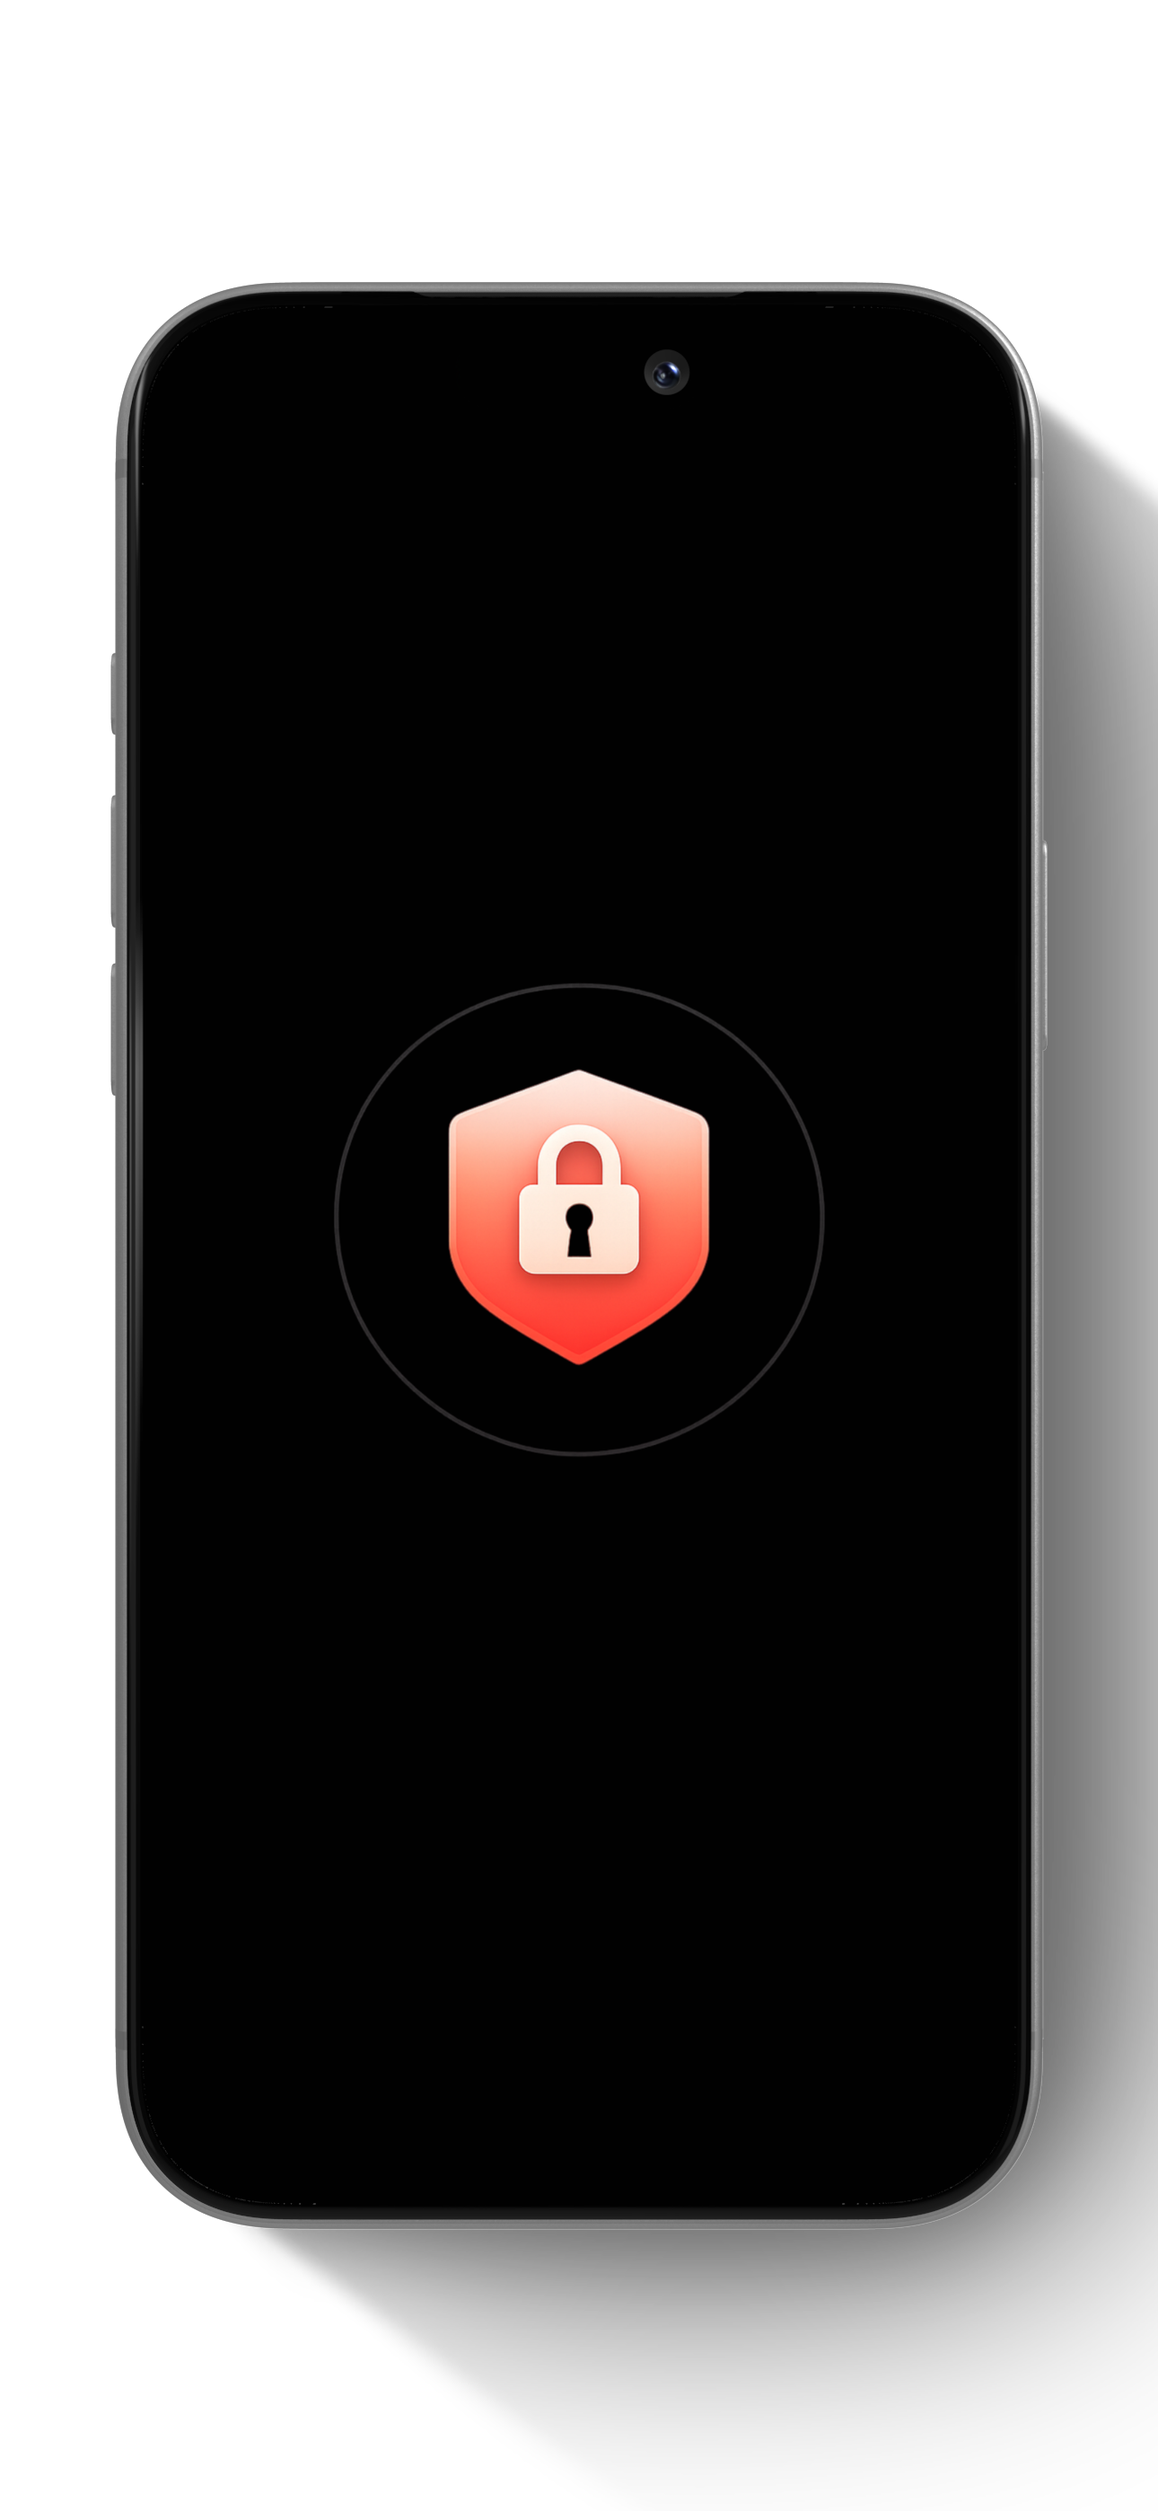
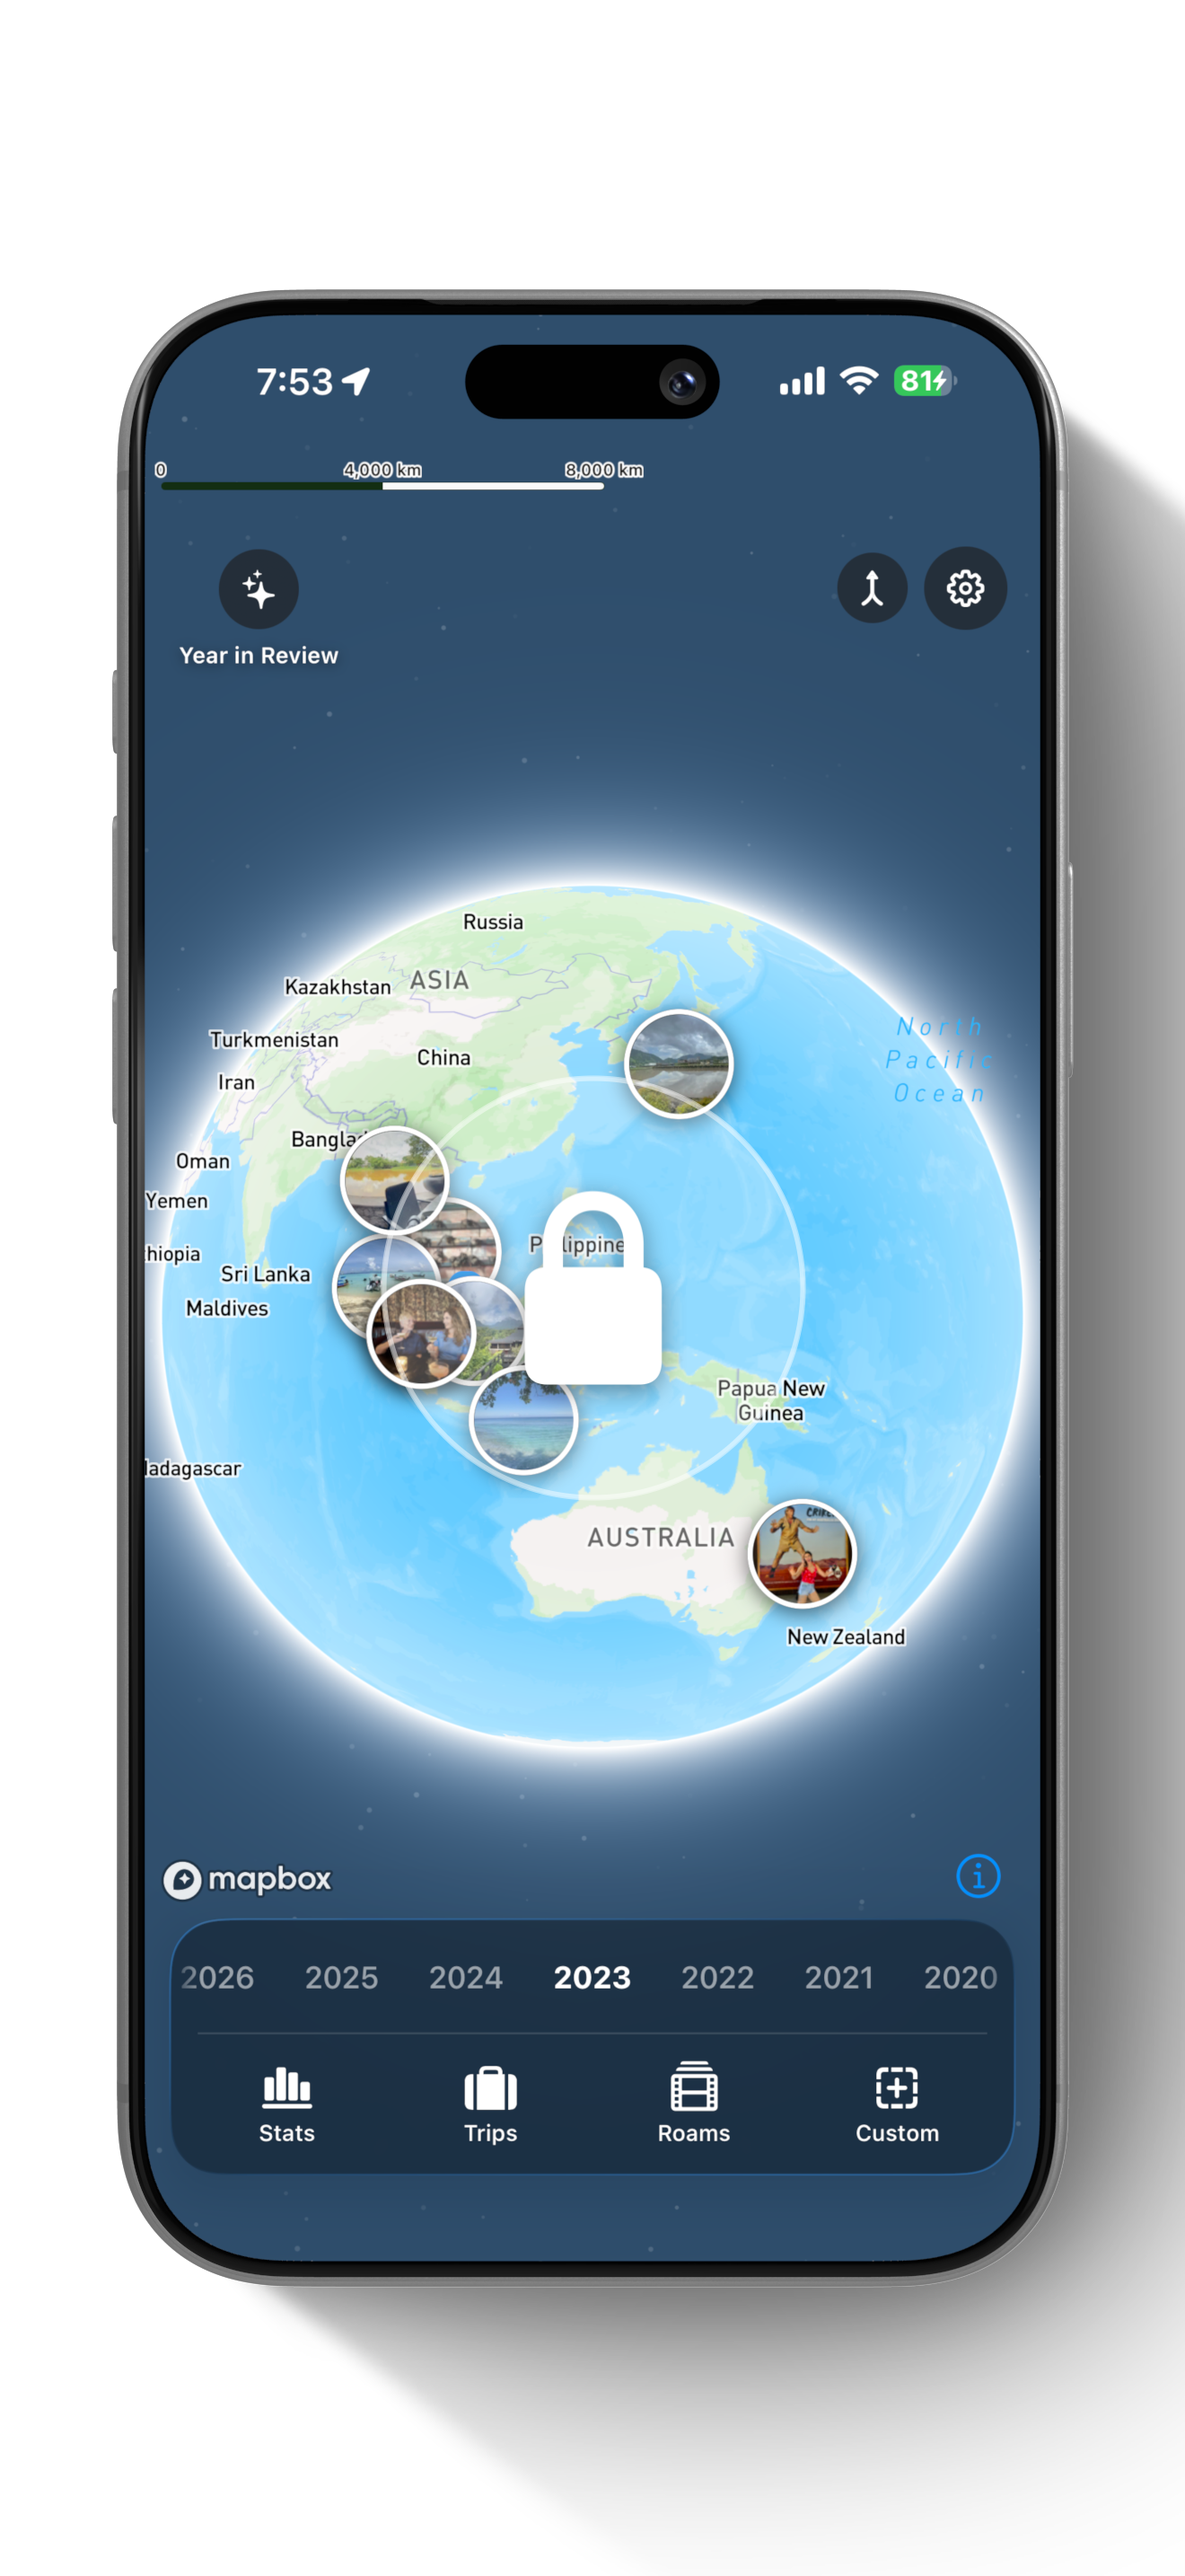
feat: privacy section shows the globe under a lock
Replaces the black shield-lock shot with the globe home screen and a
semi-transparent lock badge over it — the same treatment as the
"Private by design" App Store card, but on a transparent Rotato render
so it sits in a polaroid like every other screen.

Composited from "new globe screen/english.png" with lock-overlay.swift,
archived next to the source renders in marketing materials so any
locale can be redone: circle at the globe centre (661,1434), 470px
across, white lock.fill at 46% of it over a 25% white veil.

diff --git a/index.html b/index.html
@@ -819,7 +819,7 @@ footer{background:var(--paper-2);border-top:1px solid var(--paper-3);padding:44p
       </div>
       <div class="duo-media reveal">
         <figure class="polaroid tilt-r">
-          <img src="assets/screens/privacy.png" alt="The privacy screen, confirming that everything is processed on the device." width="1290" height="2796" loading="lazy" decoding="async">
+          <img src="assets/screens/privacy.png" alt="The globe home screen with a lock resting over it — every trip found, and every photo read, on the phone itself." width="1290" height="2796" loading="lazy" decoding="async">
         </figure>
       </div>
     </div>
